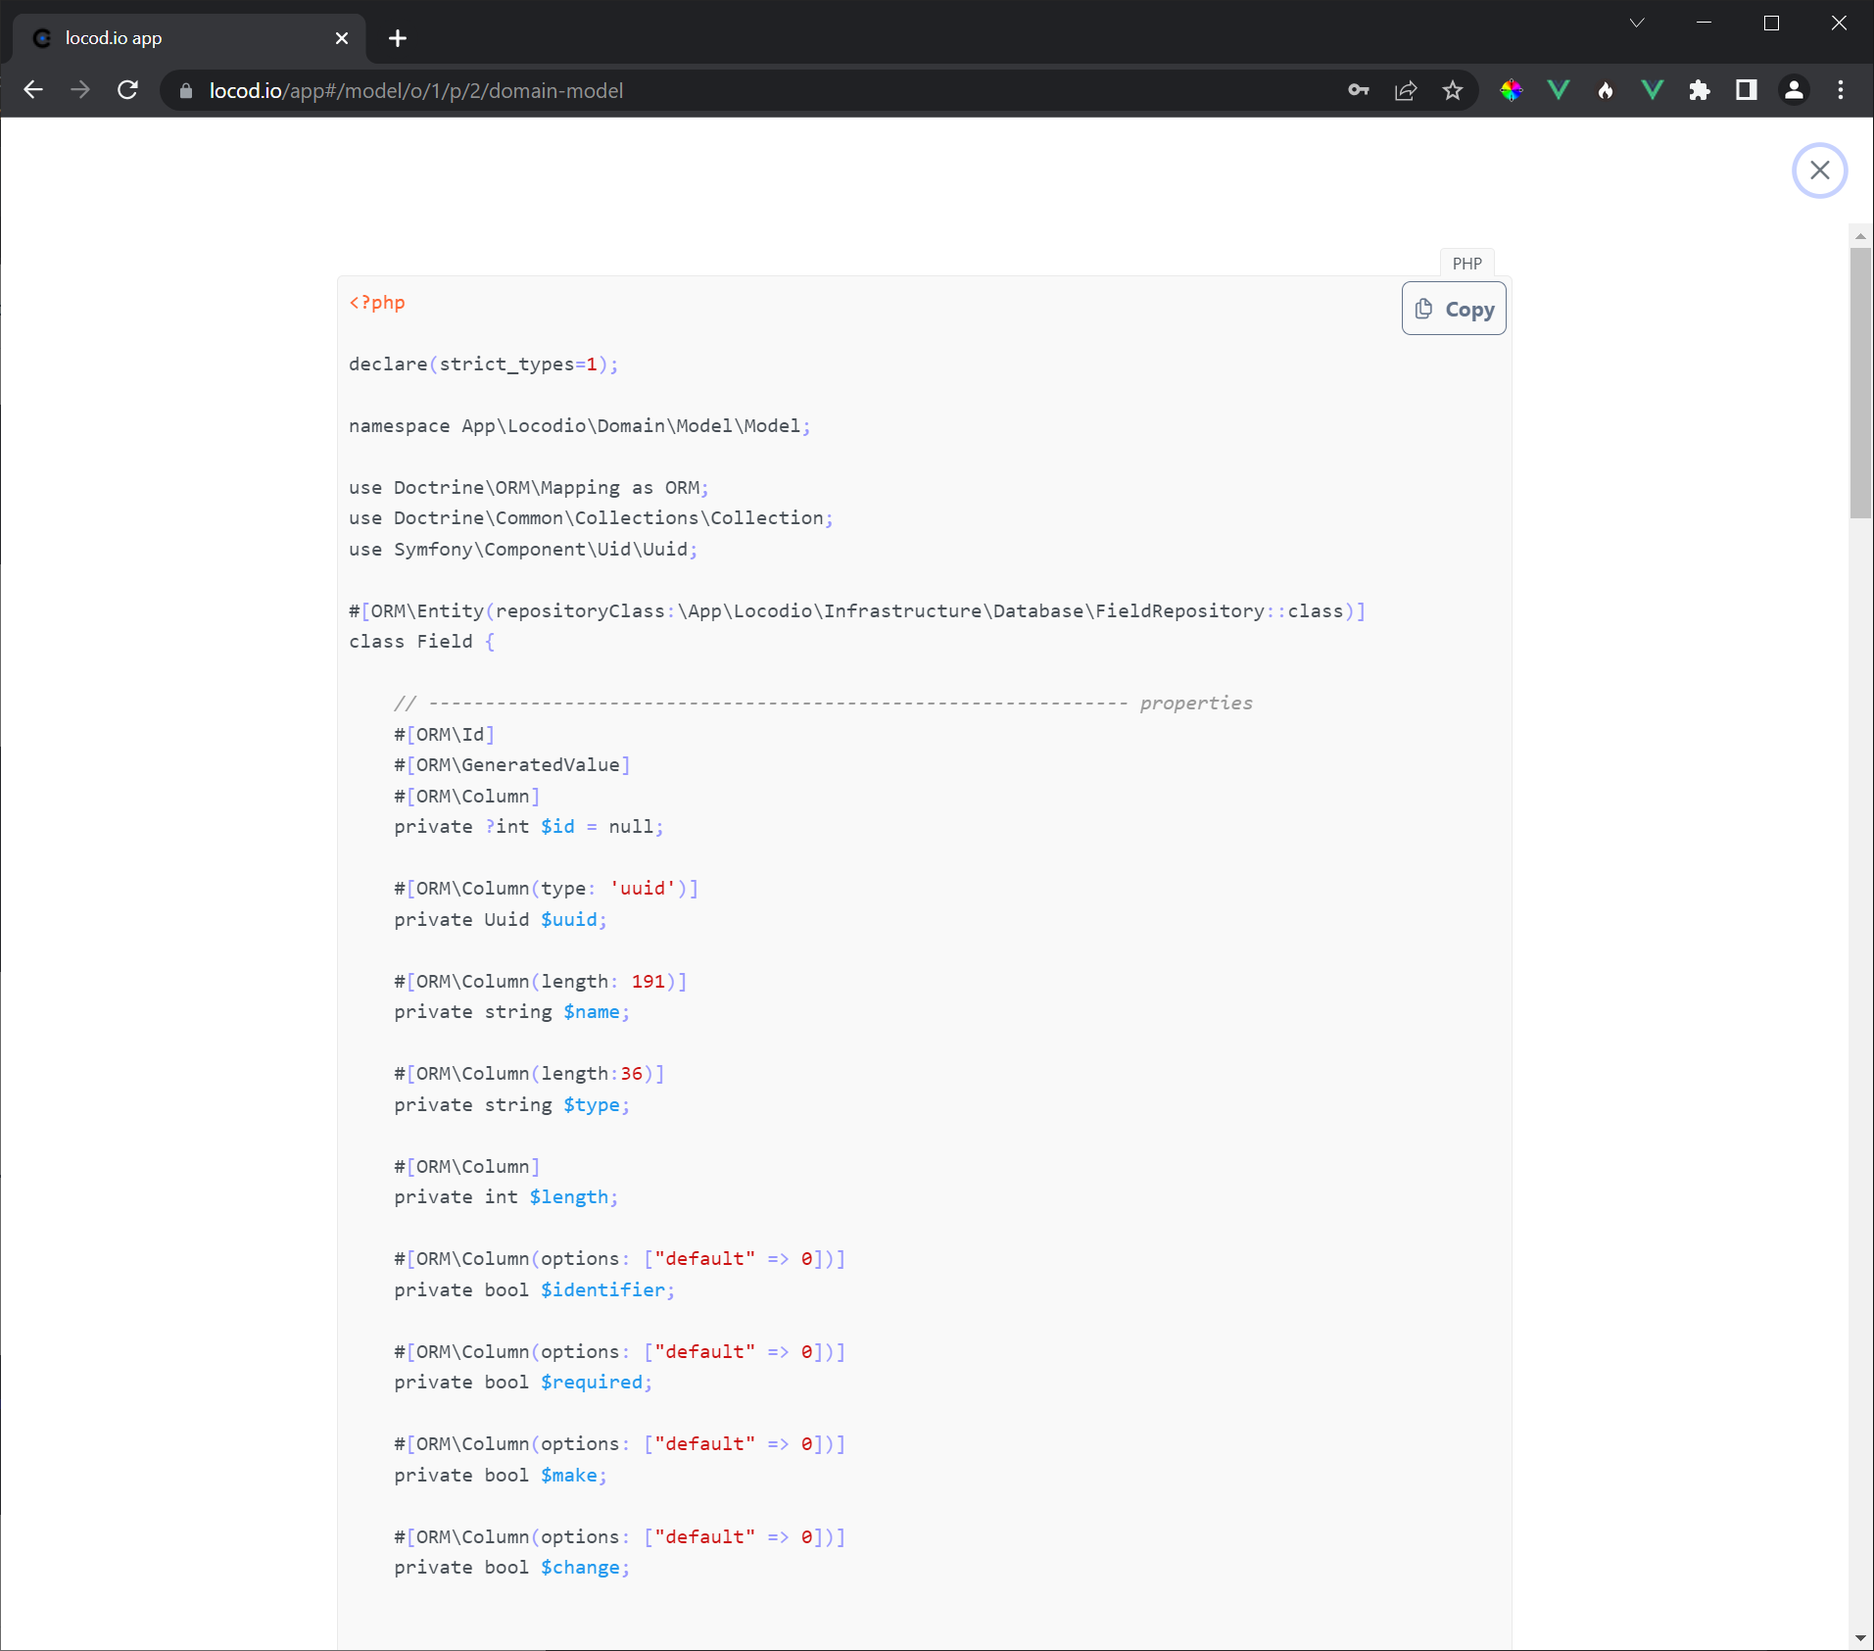
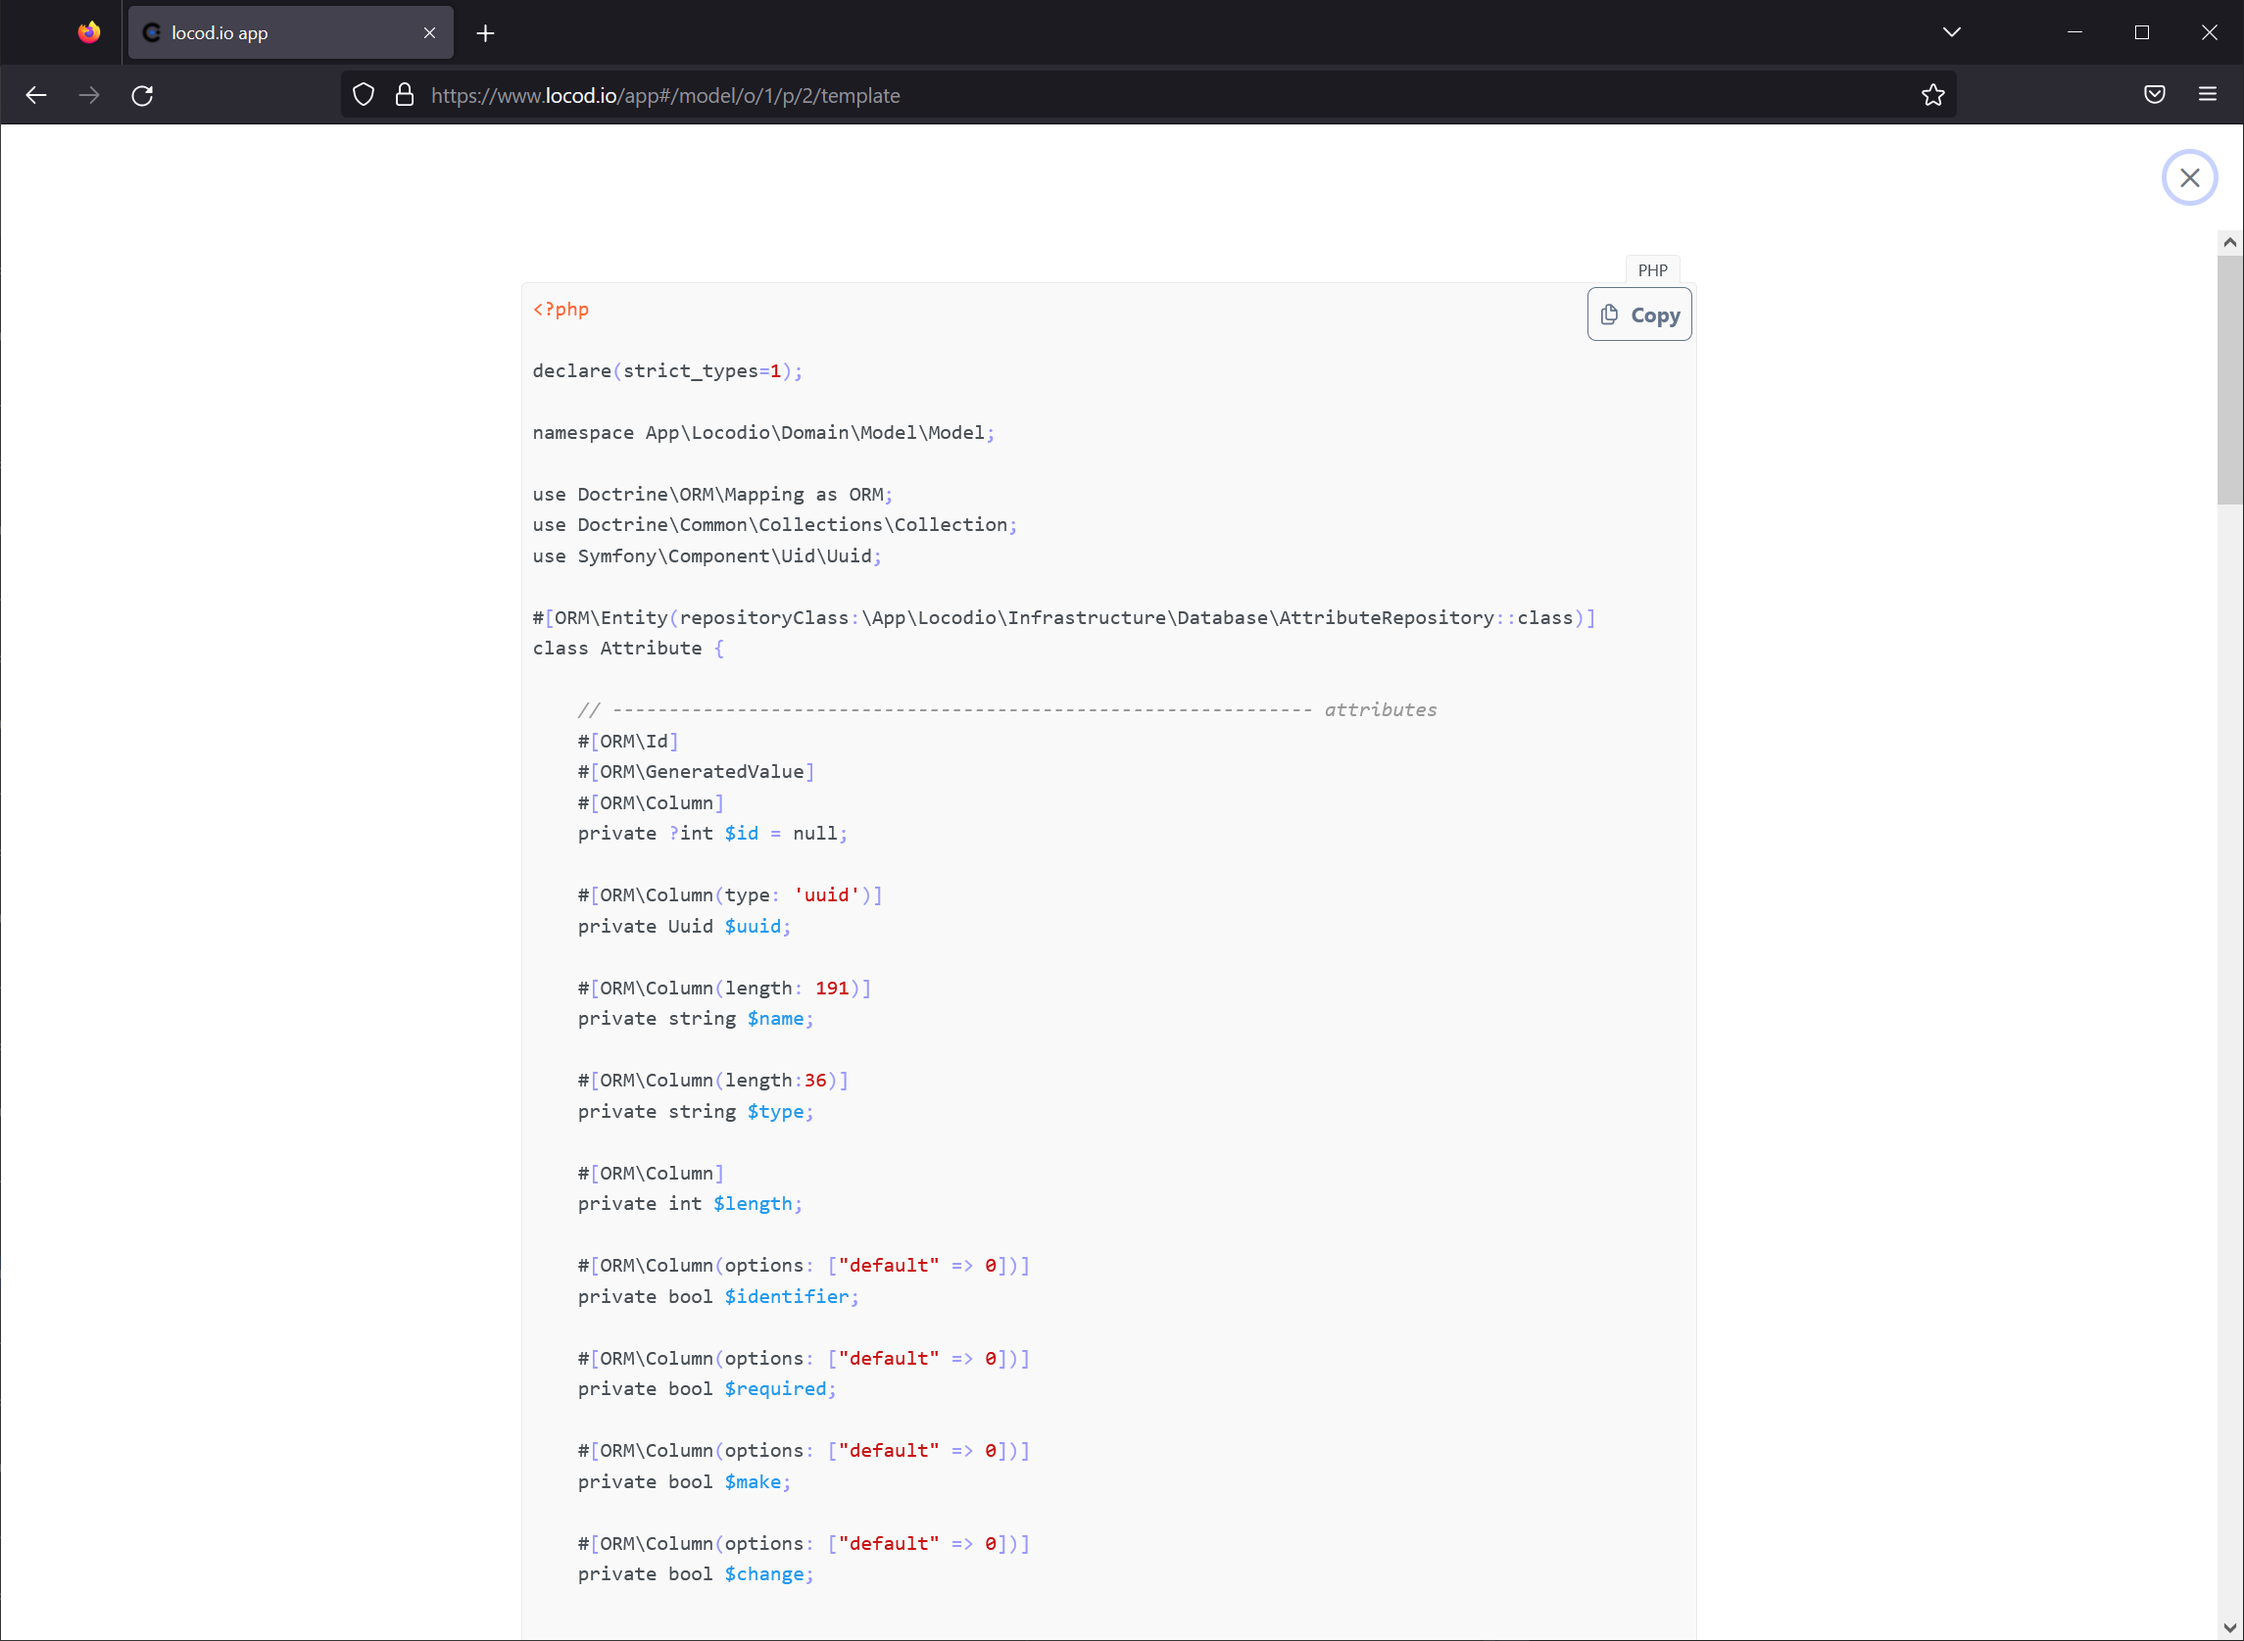
Updated documentation.

diff --git a/frontends/locodio_docs/src/templates/tips.md b/frontends/locodio_docs/src/templates/tips.md
@@ -6,14 +6,14 @@ Sometimes you want to know when you are at the beginning or at the end
 of a list. With following snippets you can use some special loop variables. 
 
 ```
-{% for field in model.fields %}
+{% for attribute in model.attributes %}
     {% if (loop.first %} ... {% endif %}
     ...
 {% endfor %}
 ```
 
 ```
-{% for field in model.fields %}
+{% for attribute in model.attributes %}
     ...
     {% if (loop.last %} ... {% endif %}
 {% endfor %}
@@ -64,15 +64,15 @@ should be represented in an different way than you have defined in the model.
 If you want for example a getter function like this:
 
 ```php
-function getSomeFieldName() {
-    return $this->fieldName;
+function getSomeAttributeName() {
+    return $this->attributeName;
 }
 ```
 Can be written in a template with following snippet:
 
 ```
-function get{{field.name | u.camel.title}}() {
-    return $this->{{field.name}}
+function get{{attribute.name | u.camel.title}}() {
+    return $this->{{attribute.name}}
 } 
 ```
 

diff --git a/frontends/locodio_docs/src/templates/model.md b/frontends/locodio_docs/src/templates/model.md
@@ -9,12 +9,12 @@
 ```
 
 * `model.project` is the related project
-* `model.fields` is the list with field or properties
-* `model.relations` is the list of relations
+* `model.attributes` is the list with attributes (properties)
+* `model.associations` is the list of associations (relations)
 
 ## Types
 
-### Field types
+### Attribute types
 
 - integer
 - float
@@ -32,7 +32,7 @@
 - email
 - enum
 
-### Relation types
+### Association types
 
 - Many-To-One_Unidirectional
 - One-To-One_Unidirectional
@@ -64,7 +64,7 @@
     "applicationLayer": "App\\Project\\Application",
     "infrastructureLayer": "App\\Project\\Infrastructure"
   },
-  "fields": [
+  "attributes": [
     {
       "id": 44,
       "uuid": "84a7404a-6a45-44f7-b3dc-69e39dc719ac",
@@ -165,7 +165,7 @@
       "enum": null
     }
   ],
-  "relations": [
+  "associations": [
     {
       "id": 26,
       "uuid": "9bec92ec-17af-4585-9214-07925abd5287",

diff --git a/frontends/locodio_docs/src/templates/README.md b/frontends/locodio_docs/src/templates/README.md
@@ -27,7 +27,7 @@ and in the [tips and tricks](tips.md#common-variable-name-filters).
 You can loop over lists or array's with following syntax. 
 
 ```
-{% for field in model.fields %}
+{% for attribute in model.attributes %}
     ...
 {% endfor %}
 ```
@@ -38,9 +38,9 @@ You can loop over lists or array's with following syntax.
 The following comparison operators are supported in any expression: ==, !=, <, >, >=, and <=.
 
 ```
-{% if field.type == 'integer' %}
+{% if attribute.type == 'integer' %}
     ...
-{% elseif field.type == 'string' %}
+{% elseif attribute.type == 'string' %}
     ...
 {% endif %}
 ```
@@ -55,7 +55,7 @@ You can combine multiple expressions with the following operators:
 Note: Operators are case-sensitive.
 
 ```
-{% if field.type == 'integer' and field.identifier == true %}
+{% if attribute.type == 'integer' and attribute.identifier == true %}
     ...
 {% endif %}
 ```

diff --git a/frontends/locodio_docs/src/application/domain-model.md b/frontends/locodio_docs/src/application/domain-model.md
@@ -1,10 +1,10 @@
 # Model
 
-A __Model__ (or DomainModel, Entity, ...) is the base for modeling data in locod.io.  
+A __Model__ (DomainModel, Entity, ...) is the base for modeling data in locod.io.  
 With the lightning icon you can prefill the namespace and the repository.
 
-Then you can provide the information for the __Fields__ (or properties) of the model.  
-Beneath the fields, you can create and manage the __Relations__ to other models in your
+Then you can provide the information for the __Attributions__ (properties) of the model.  
+Beneath the fields, you can create and manage the __Associations__ (relations) to other models in your
 project.
 
 ![Model](/model.png)

diff --git a/frontends/locodio_docs/src/application/project-overview.md b/frontends/locodio_docs/src/application/project-overview.md
@@ -9,8 +9,8 @@ With the on/off button you can choose if you want that item in your overview or 
 
 The other three buttons define the level of detail you want in the overview:
 * Only the name
-* Basic information: list of fields without type
-* Extended information, with types and extra relational properties.
+* Basic information: list of attributes without type
+* Extended information, attributes with types and extra association properties.
 
 ![Dashboard](/project_overview.png)
 

diff --git a/frontends/locodio_docs/src/about/releases.md b/frontends/locodio_docs/src/about/releases.md
@@ -15,3 +15,10 @@
 - Importing master templates
 - Generating code (to be copied)
 - Share and browse templates (public)
+
+## v0.1.1 Unit & Integration Tests
+- Bug Fix Registration
+- Unit & Integration tests
+
+## v0.1.2 Attributes & Associations
+- Refactoring to Attributes & Associations (fields & relations)
